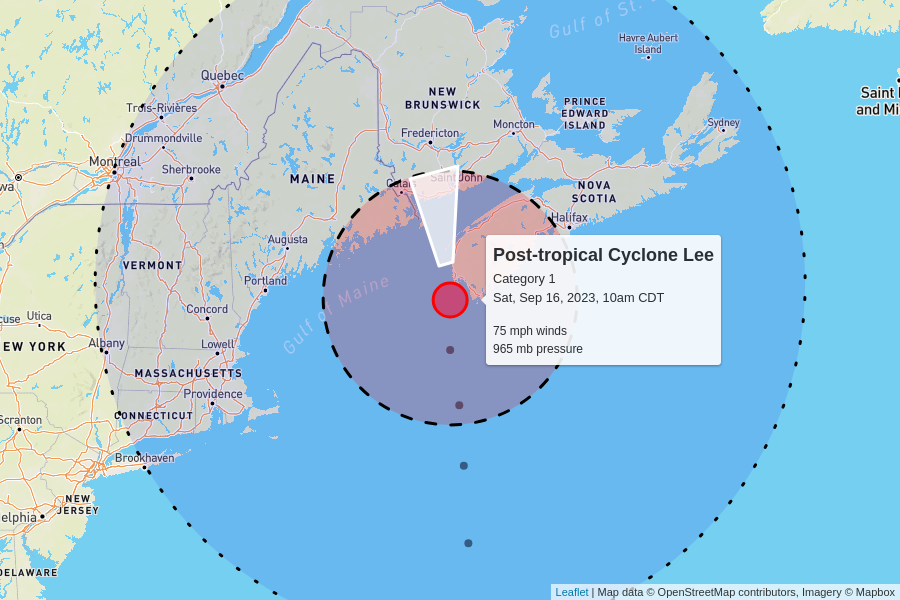
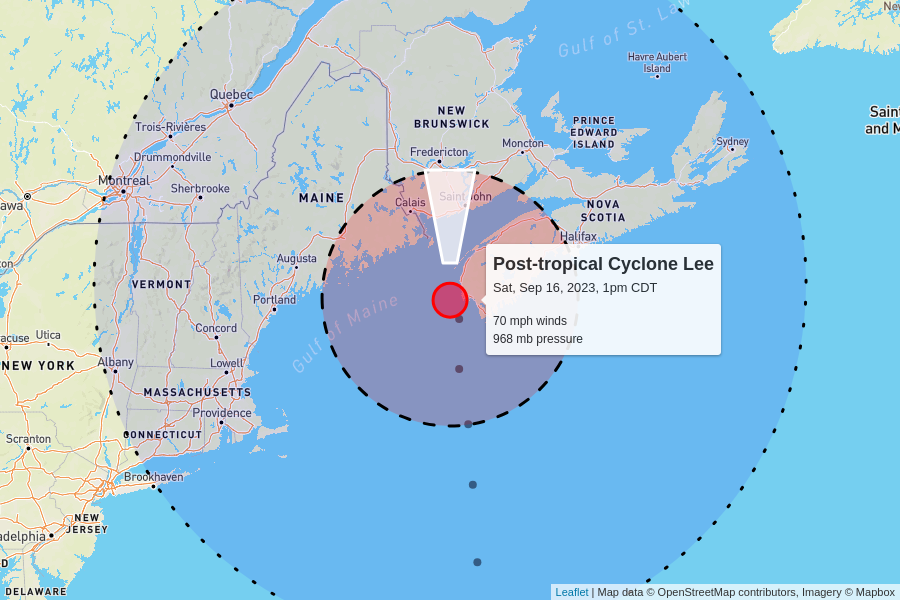
automatic update

diff --git a/docs/index.html b/docs/index.html
@@ -101,10 +101,10 @@
 
     <table>
       <tr>
-        <td colspan="6" class="storm category-1" >
+        <td colspan="6" class="storm category-0" >
           <h2>
-            Post-tropical Cyclone Lee - Category 1
-            <p class="updated">last updated <span data-time>2023-09-16T15:00:00.000Z</span></p>
+            Post-tropical Cyclone Lee
+            <p class="updated">last updated <span data-time>2023-09-16T18:00:00.000Z</span></p>
           </h2>
         </td>
       </tr>
@@ -119,12 +119,12 @@
       </tr>
       <tr>
         <td class="spacer"></td>
-        <td>75 mph<br>-5 mph since last update</td>
-        <td>965 mb<br>0 mb since last update</td>
+        <td>70 mph<br>-5 mph since last update</td>
+        <td>968 mb<br>+3 mb since last update</td>
         <td>
           22 mph to the north
           <br/>
-          <span style="display: inline-block; font-size: 1.5em; transform: rotate(350deg);">↑</span>
+          <span style="display: inline-block; font-size: 1.5em; transform: rotate(360deg);">↑</span>
         </td>
         <td><a href="https://raw.githubusercontent.com/mgwalker/atlantic-hurricanes/main/data/csv/AL132023.csv">AL132023.csv</a></td>
         <td><a href="https://www.nhc.noaa.gov/archive/2023/LEE.shtml?">NHC advisories</a></td>
